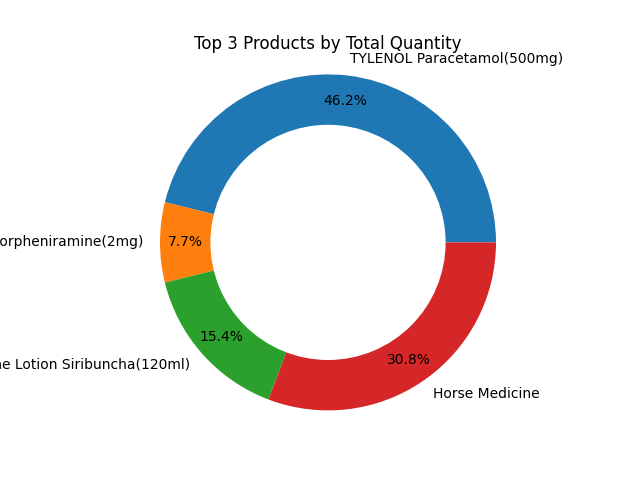
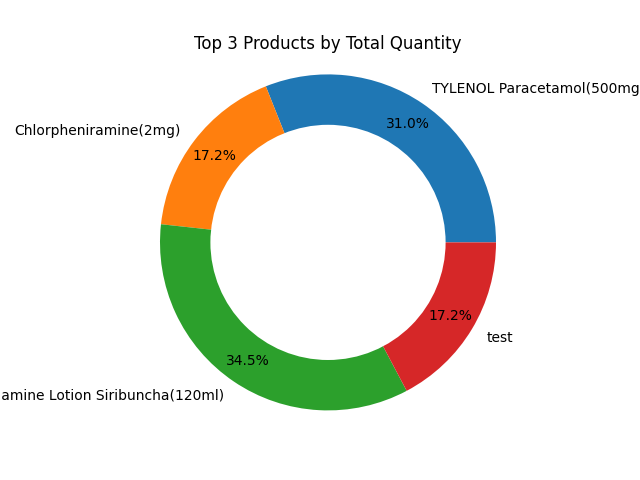
fix

diff --git a/templates/admin.html b/templates/admin.html
@@ -27,7 +27,7 @@
     <link rel="stylesheet" href="{{ url_for('static', filename='css/solid.css') }}" rel="stylesheet">
     <link rel="stylesheet" href="https://cdnjs.cloudflare.com/ajax/libs/font-awesome/4.7.0/css/font-awesome.min.css">
     <script src="https://cdn.plot.ly/plotly-latest.min.js"></script>
-    
+
 
     <style>
         body {
@@ -58,113 +58,29 @@
         .nav-link {
             color: #FFFFFF;
         }
+
         .baht-sign::before {
-         content: "\0E3F";
-         font-family: "Arial";
+            content: "\0E3F";
+            font-family: "Arial";
         }
     </style>
 </head>
 
 <body>
     {% include "navbar.html" %}
-    <nav class="navbar fixed-top navbar-expand-lg ">
-        <div class="container-fluid">
-          <a class="navbar-brand" href="#">Icon</a>
-          <button class="navbar-toggler" type="button" data-bs-toggle="collapse" data-bs-target="#navbarTogglerDemo02"
-            aria-controls="navbarTogglerDemo02" aria-expanded="false" aria-label="Toggle navigation">
-            <span class="navbar-toggler-icon"></span>
-          </button>
-          <div class="collapse navbar-collapse" id="navbarTogglerDemo02">
-            <ul class="navbar-nav me-auto mb-2 mb-lg-0">
-              <li class="nav-item">
-                <a class="nav-link text-white active" aria-current="page" href="/homepage">Home</a>
-              </li>
-              <li class="nav-item">
-                {% if 'Shoppingcart' in session %}
-                <a class="nav-link" data-bs-toggle="modal" data-bs-target="#Cart"> Shopping Cart: ({{
-                  session['Shoppingcart']|length }})</a>
-                {% else %}
-                <a class="nav-link" data-bs-toggle="modal" data-bs-target="#Cart"> Shopping Cart: (0)</a>
-                {% endif %}
-              </li>
-              <li class="nav-item">
-              <a class="nav-link text-white active" aria-current="page" href="/products_manage">Manage Product</a>
-            </li>
-            </ul>
-            <div class="clock flex-nowrap" id="clock" onload="clock"></div>
-            <ul class="navbar-nav">
-              <li class="nav-item dropdown">
-                <a class="nav-link dropdown-toggle" href="#" id="navbarDarkDropdownMenuLink" role="button"
-                  data-bs-toggle="dropdown" aria-expanded="false">
-                  ยินดีต้อนรับคุณ {{ user['first_name'] }}
-                </a>
-                <ul class="dropdown-menu dropdown-menu-lg-end" aria-labelledby="navbarDarkDropdownMenuLink">
-                  <li><a class="dropdown-item" href="#">ข้อมูลผู้ใช้</a></li>
-                  {% if 'admin' in session %}
-                  <li><a class="dropdown-item" href="/admin">จัดการระบบ (Admin)</a></li>
-                  {% endif %}
-                  <li><a class="dropdown-item" href="/logout">ออกจากระบบ</a></li>
-                </ul>
-              </li>
-            </ul>
-          </div>
-        </div>
-      </nav>
-    <div class="modal fade" id="Cart">
-        <div class="modal-dialog modal-lg">
-            <div class="modal-content">
-                <div class="modal-header">
-                    <h1 class="modal-title">Shopping Cart</h1>
-                    <button type="button" class="btn-close" data-bs-dismiss="modal" aria-label="Close"></button>
-                </div>
-                <div class="modal-body">
-                    <table class="table table-sm">
-                        {% set max_value = 3%}
-                        {% if 'Shoppingcart' in session %}
-                        <thead>
-                            <th></th>
-                            <th>Image</th>
-                            <th>Name</th>
-                            <th>Price</th>
-                            <th>Quantity</th>
-                            <th>Total</th>
-                            <th>Update</th>
-                            <th>Delete</th>
-                        </thead>
-                        <tbody>
-                            {% for Cart_list in session['Shoppingcart'] %}
-                            <tr>
-                                <td>{{loop.index}}</td>
-                                <td><img src="/static/upload/{{ Cart_list.image }}" class="display"
-                                        alt="{{Cart_list.product_name}}">
-                                </td>
-                                <input type="hidden" name="cart_item_id" value="{{ Cart_list.cart_item_id }}" />
-                                <input type="hidden" name="product_id" value="{{ Cart_list.product_id }}" />
-                                <td>{{Cart_list.product_name}}</td>
-                                <form action="{{url_for('update_cart_item', cart_item_id=Cart_list.cart_item_id)}}"
-                                    method="POST">
-                                    <td>${{"%.2f"|format(Cart_list.price)}}</td>
-                                    <input type="hidden" name="cart_item_id" value="{{ Cart_list.cart_item_id }}" />
-                                    {% for product in products %}
-                                    {% if product.stock < max_value %} {% set max_value=product.stock%} {% endif %}{%
-                                        endfor %} <td>
-                                        <input type="number" name="cart_quantity" min="1" max="{{ max_value }}"
-                                            value="{{ Cart_list.quantity|default('1') }}">
-                                        </td>
-
     <div class="main-panel shadow">
         <div>
-            <p>Lorem ipsum dolor sit amet consectetur adipisicing elit. Tempore cumque, quidem laboriosam, similique
+            <p>Lorem ipsum dolor sit amet consectetur adipisicing elit. Tempore
+                cumque, quidem laboriosam, similique
                 modi
                 aspernatur
-                esse ad iure officia voluptas blanditiis necessitatibus voluptatem, vitae iste pariatur labore. Omnis,
+                esse ad iure officia voluptas blanditiis necessitatibus voluptatem,
+                vitae iste pariatur labore. Omnis,
                 similique
                 explicabo.</p>
         </div>
-        <img src="../static/2Q.png" alt=""><br>
-        <a href="/products_manage">Manage Product</a>
     </div>
-  
+
     <div class="container-fluid">
 
         <!-- Page Heading -->
@@ -183,7 +99,8 @@
                             <div class="col mr-2">
                                 <div class="text-xs font-weight-bold text-primary text-uppercase mb-1">
                                     Income</div>
-                                <div class="h5 mb-0 font-weight-bold text-gray-800">{{ combined_total_price }}</div>
+                                <div class="h5 mb-0 font-weight-bold text-gray-800">
+                                    {{ combined_total_price }}</div>
                             </div>
                             <div class="col-auto">
                                 <i class="baht-sign fa-2x text-gray-300"></i>
@@ -193,46 +110,47 @@
                 </div>
             </div>
 
-            
 
-        <!-- Content Row -->
 
-        <div class="row">
+            <!-- Content Row -->
 
-            <!-- Area Chart -->
-            <div class="col-xl-8 col-lg-7">
-                <div class="card shadow mb-4">
-                    <div class="card-header py-3 d-flex flex-row align-items-center justify-content-between">
-                        <h6 class="m-0 font-weight-bold text-primary">Product Stock</h6>  
-                    </div>
-                    <!-- Card Body -->
-                    <div class="card-body">
-                        <div class="chart-area">
-                            <img src="{{ url_for('static', filename='barchart.png') }}" alt="Product Stock Chart">
+            <div class="row">
+
+                <!-- Area Chart -->
+                <div class="col-xl-8 col-lg-7">
+                    <div class="card shadow mb-4">
+                        <div class="card-header py-3 d-flex flex-row align-items-center justify-content-between">
+                            <h6 class="m-0 font-weight-bold text-primary">Product
+                                Stock</h6>
+                        </div>
+                        <!-- Card Body -->
+                        <div class="card-body">
+                            <div class="chart-area">
+                                <img src="{{ url_for('static', filename='barchart.png') }}" alt="Product Stock Chart">
+                            </div>
                         </div>
                     </div>
                 </div>
-            </div>
 
-            <!-- Pie Chart -->
-            <div class="col-xl-4 col-lg-5">
-                <div class="card shadow mb-4">
-                    <!-- Card Header - Dropdown -->
-                    <div
-                        class="card-header py-3 d-flex flex-row align-items-center justify-content-between">
-                        <h6 class="m-0 font-weight-bold text-primary">Top 3 Best Seller</h6>
-                    </div>
-                    <!-- Card Body -->
-                    <div class="card-body">
-                        <div class="chart-pie pt-4 pb-2">
+                <!-- Pie Chart -->
+                <div class="col-xl-4 col-lg-5">
+                    <div class="card shadow mb-4">
+                        <!-- Card Header - Dropdown -->
+                        <div class="card-header py-3 d-flex flex-row align-items-center justify-content-between">
+                            <h6 class="m-0 font-weight-bold text-primary">Top 3 Best
+                                Seller</h6>
+                        </div>
+                        <!-- Card Body -->
+                        <div class="card-body">
+                            <div class="chart-pie pt-4 pb-2">
                                 <img src="{{ url_for('static', filename='donutchart.png') }}" alt="Top 3 seller">
+                            </div>
                         </div>
                     </div>
                 </div>
             </div>
-        </div>
 
-    
+
 </body>
 
 </html>

diff --git a/app.py b/app.py
@@ -739,7 +739,7 @@ def admin():
         "SELECT * FROM users_detail WHERE user_id=%s", (user_id,))
     cur.execute(
         "SELECT transactions.transaction_id,cart_items.cart_item_id, cart_items.cart_id, carts.user_id, products.product_id, products.image, products.product_name, cart_items.quantity, products.price, carts.total_price, carts.total_quantity FROM products LEFT JOIN cart_items ON products.product_id=cart_items.product_id  LEFT JOIN carts ON cart_items.cart_id=carts.cart_id LEFT JOIN transactions ON transactions.cart_id=carts.cart_id WHERE cart_items.quantity > 0 AND carts.user_id=%s AND transactions.status != 'success'", (user_id,))
-    cone.execute("SELECT SUM(carts.total_price) as sum FROM carts LEFT JOIN transactions ON carts.cart_id = transactions.cart_id WHERE status='pending'")
+    cone.execute("SELECT SUM(carts.total_price) as sum FROM carts LEFT JOIN transactions ON carts.cart_id = transactions.cart_id WHERE status='success'")
     result = cone.fetchone()
     combined_total_price = result['sum']
     rows = cursor.fetchall()    
